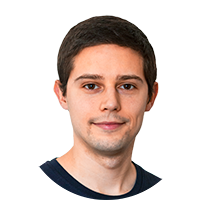
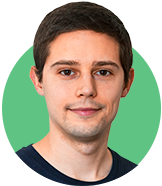
refactor: used nextjs utils
- next/image instead of <img>
- next's lint
- passed _app and _document code to native files
- removed unused code
- avatar image now contains halo instead of building it with css

diff --git a/src/components/avatar/Avatar.tsx b/src/components/avatar/Avatar.tsx
@@ -1,21 +1,25 @@
 import { HTMLAttributes } from 'react';
 import classNames from 'classnames';
+import Image from 'next/image';
 
 import img from '../../media/images/avatar.png';
 
 import styles from './Avatar.module.css';
 
-type AvatarProps = HTMLAttributes<HTMLDivElement>
+type AvatarProps = HTMLAttributes<HTMLDivElement>;
 
 export const Avatar = (props: AvatarProps) => {
 	const { className, ...rest } = props;
 
 	return (
 		<div className={ classNames(styles.container, className) } { ...rest }>
-			<div className={ styles.pictureContainer }>
-				<div className={ styles.halo } />
-				<img alt="Ivo Lima Silva" src={ img.src } className={ styles.picture } />
-			</div>
+			<Image
+				alt="Ivo Lima Silva"
+				src={ img }
+				layout="fixed"
+				width={ 70 }
+				height={ img.height * 70 / img.width }
+				className={ styles.picture } />
 			<div className={ styles.infoContainer }>
 				<h1 className={ styles.name }>Ivo Lima Silva</h1>
 				<h2 className={ styles.title }>Software Developer</h2>

diff --git a/src/pages/_app.tsx b/src/pages/_app.tsx
@@ -3,12 +3,14 @@ import type { AppProps } from 'next/app';
 import Head from 'next/head';
 import smoothscroll from 'smoothscroll-polyfill';
 
-import { Header, Footer } from '../../components';
-import Favicon from '../../media/favicons/favicon.ico';
-import IconApple from '../../media/favicons/apple-touch-icon.png';
-import IconSafariPinned from '../../media/favicons/safari-pinned-tab.svg';
-import Icon16 from '../../media/favicons/favicon-16x16.png';
-import Icon32 from '../../media/favicons/favicon-32x32.png';
+import { Header, Footer } from '../components';
+import Favicon from '../media/favicons/favicon.ico';
+import IconApple from '../media/favicons/apple-touch-icon.png';
+import IconSafariPinned from '../media/favicons/safari-pinned-tab.svg';
+import Icon16 from '../media/favicons/favicon-16x16.png';
+import Icon32 from '../media/favicons/favicon-32x32.png';
+
+import '../styles/global/index.css';
 
 const App = ({ Component, pageProps }: AppProps) => {
 	useEffect(() => {

diff --git a/src/components/avatar/Avatar.module.css b/src/components/avatar/Avatar.module.css
@@ -1,40 +1,10 @@
 @import "../../styles/index.css";
 
-:root {
-	--size-avatar: 7rem;
-}
-
 .container {
 	display: flex;
 }
 
-.pictureContainer {
-	position: relative;
-	width: var(--size-avatar);
-	height: var(--size-avatar);
-}
-
-.halo {
-	content: "";
-	position: absolute;
-	right: 0;
-	bottom: 0;
-	left: 0;
-	width: 100%;
-	max-width: calc(0.9 * var(--size-avatar));
-	height: 100%;
-	max-height: calc(0.9 * var(--size-avatar));
-	z-index: calc(var(--z-index-base) - 1);
-	margin: 0 auto;
-	border-radius: 50%;
-	background-color: var(--color-green);
-}
-
 .picture {
-	max-width: 110%;
-	margin-top: -9%;
-	margin-left: -7%;
-	border-radius: 0 0 60% 56%;
 	animation: fade-in var(--duration-standard) ease-in-out calc(2 * var(--duration-standard)) backwards;
 }
 
@@ -46,10 +16,6 @@
 }
 
 @media (--layout-small) {
-	:root {
-		--size-avatar: 10rem;
-	}
-
 	.container {
 		flex-direction: column;
 		align-items: center;

diff --git a/src/pages/index.tsx b/src/pages/index.tsx
@@ -1,8 +1,8 @@
 import { Fragment } from 'react';
 
-import { Intro, WorkExperience, Education } from '../../components';
+import { Intro, WorkExperience, Education } from '../components';
 
-import styles from './Home.module.css';
+import styles from './index.module.css';
 
 const Home = () => (
 	<Fragment>

diff --git a/src/pages/index.module.css b/src/pages/index.module.css
@@ -1,0 +1,17 @@
+@import "../styles/index.css";
+
+.section {
+	margin-top: 15rem;
+}
+
+@media (--layout-small) {
+	.section {
+		margin-top: 10rem;
+	}
+}
+
+@media (--layout-xsmall) {
+	.section {
+		margin-top: 6rem;
+	}
+}

diff --git a/src/utils/index.ts b/src/utils/index.ts
@@ -1,3 +1,2 @@
 export { default as convertToKey } from './convert-to-key';
 export { default as formatDates } from './format-dates';
-export { default as randomColor } from './random-color';

diff --git a/next-env.d.ts b/next-env.d.ts
@@ -1,2 +1,3 @@
 /// <reference types="next" />
 /// <reference types="next/types/global" />
+/// <reference types="next/image-types/global" />
